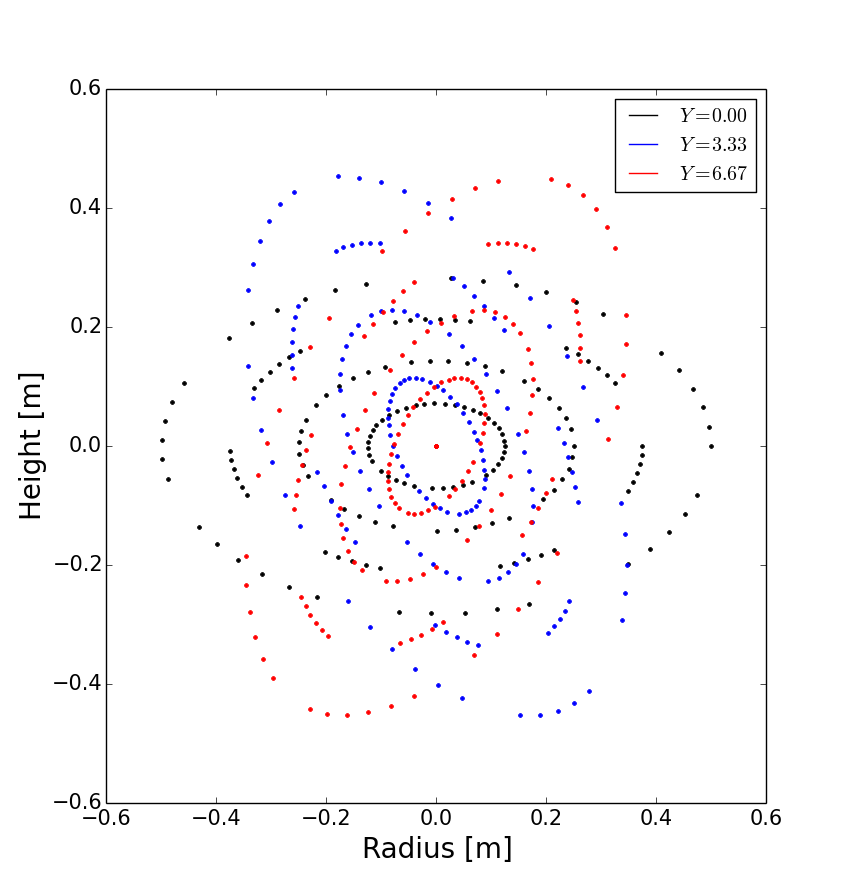
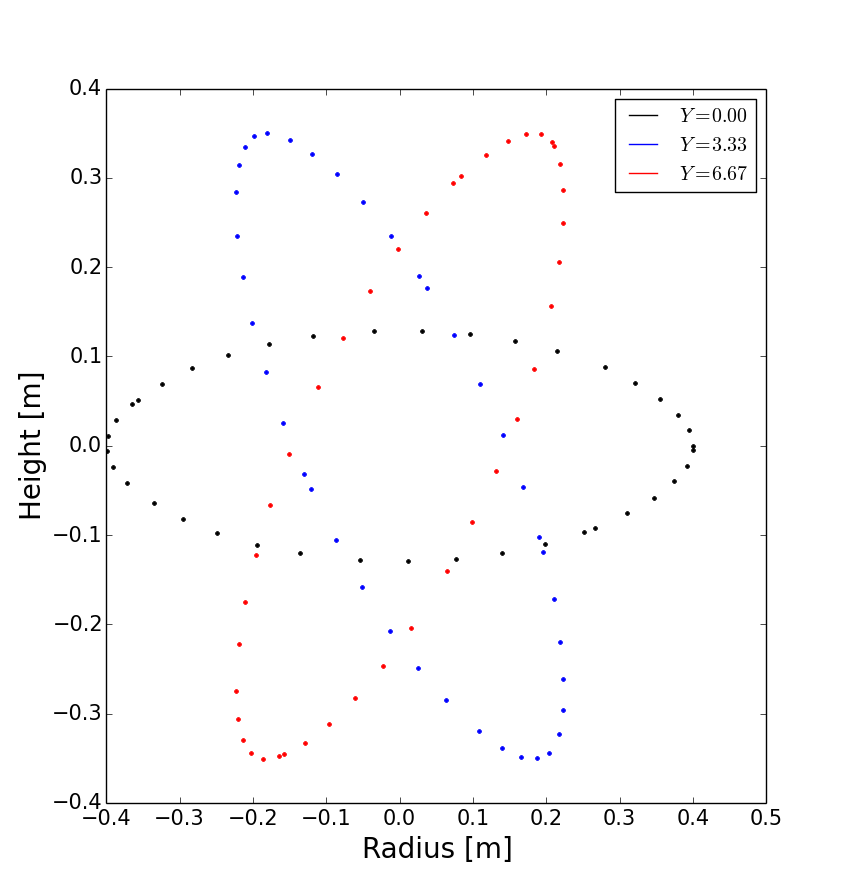
Adding section on aligning grid to flux surface

diff --git a/manual/sphinx/user_docs/zoidberg.rst b/manual/sphinx/user_docs/zoidberg.rst
@@ -37,11 +37,14 @@ As in the above code, creating an output file consists of the following steps:
 
 Each of these stages can be customised to handle more complicated
 magnetic fields, more complicated grids, and particular output formats. 
-Details of the functionality available are described in sections below; 
-here we will describe the key concepts.
+Details of the functionality available are described in sections below,
+and there are several examples in the `examples/zoidberg` directory.
 
-An important input is the size of the domain in Y, and
-whether the domain is periodic. By default ``rectangular_grid`` makes
+Rectangular grids
+-----------------
+
+An important input to Zoidberg is the size of the domain in Y, and
+whether the domain is periodic in Y. By default ``rectangular_grid`` makes
 a non-periodic rectangular box which is of length 10 in the Y direction.
 This means that there are boundaries at :math:`y=0` and at :math:`y=10`.
 ``rectangular_grid`` puts the y slices at equally spaced intervals, and puts
@@ -53,7 +56,7 @@ At each of these y locations ``rectangular_grid`` defines a rectangular 2D poloi
 the X-Z coordinates, by default with a length of 1 in each direction and centred on :math:`x=0,z=0`. 
 These 2D poloidal grids are then put together into a 3D ``Grid``. This process can be customised
 by separating step 2 (the ``rectangular_grid`` call) into stages 2a) and 2b). 
-For example, to create a periodic rectangular grid we could call:
+For example, to create a periodic rectangular grid we could use the following:
 
 .. code:: python
    
@@ -92,14 +95,16 @@ same on every poloidal grid. The shape of the grid can however be completely
 different. The construction of a 3D ``Grid`` is the same in all cases, so for now
 we will concentrate on producing different poloidal grids.
 
+More general grids
+------------------
+
 The FCI technique is not restricted to rectangular grids, and in particular
 Zoidberg can handle structured grids in an annulus with quite complicated shapes.
-The `StructuredPoloidalGrid` class handles more general geometries,
+The `StructuredPoloidalGrid` class handles quite general geometries,
 but still assumes that the grid is structured and logically rectangular.
 Currently it also assumes that the z index is periodic.
 
 One way to create this grid is to define the grid points manually e.g.:
-
 
 .. code:: python
           
@@ -116,8 +121,7 @@ One way to create this grid is to define the grid points manually e.g.:
    poloidal_grid = zoidberg.poloidal_grid.StructuredPoloidalGrid(R,Z)
 
 For more complicated shapes than circles, Zoidberg comes with an elliptic grid
-generator which needs to be given only the inner and outer 
-boundaries.
+generator which needs to be given only the inner and outer boundaries:
 
 .. code:: python
 
@@ -131,7 +135,8 @@ boundaries.
                             elong=1.0, triang=0.0, indent=0.2,
                             n=50)
    
-   grid = zoidberg.poloidal_grid.grid_elliptic(inner, outer, 100, 100, show=True)
+   poloidal_grid = zoidberg.poloidal_grid.grid_elliptic(inner, outer,
+                                                 100, 100, show=True)
 
 
 which should produce the figure below:
@@ -144,11 +149,93 @@ which should produce the figure below:
    A grid produced by ``grid_elliptic`` from shaped inner and outer lines
 
 
+Grids aligned to flux surfaces
+------------------------------
+
+The elliptic grid generator can be used to generate grids
+whose inner and/or outer boundaries align with magnetic flux surfaces.
+All it needs is two ``RZline`` objects as generated by ``zoidberg.rzline.shaped_line``,
+one for the inner boundary and one for the outer boundary.
+``RZline`` objects represent periodic lines in R-Z  (X-Z coordinates), with
+interpolation using splines.
+
+To create an ``RZline`` object for a flux surface we first need to find
+where the flux surface is. To do this we can use a Poincare plot: Start at a point
+and follow the magnetic field a number of times around the periodic y direction
+(e.g. toroidal angle). Every time the field line reaches a y location of interest,
+mark the position to build up a scattered set of points which all lie on the same
+flux surface.
+
+At the moment this will not work correctly for slab geometries, but expects
+closed flux surfaces such as in a stellarator or tokamak. A simple test case
+is a straight stellarator:
+
+.. code:: python
+   
+   import zoidberg
+   field = zoidberg.field.StraightStellarator(I_coil=0.4, yperiod=10)
+
+By default ``StraightStellarator`` calculates the magnetic field due to four coils which spiral around
+the axis at a distance :math:`r=0.8` in a classical stellarator configuration. The ``yperiod``
+argument is the period in y after which the coils return to their starting locations.
+   
+To visualise the Poincare plot for this stellarator field, pass the ``MagneticField`` object
+to ``zoidberg.plot.plot_poincare``, together with start location(s) and periodicity information:
+
+.. code:: python
+
+   zoidberg.plot.plot_poincare(field, 0.4, 0.0, 10.0)
+
+which should produce the following figure:
+
+.. figure:: ../figs/zoidberg/poincare.png
+   :name: poincare
+   :alt: Points on four oval shaped flux surfaces in x-z at three locations along the y direction
+   :scale: 50
+   
+   Poincare map of straight stellarator showing a single flux
+   surface. Each colour corresponds to a different x-z plane
+   in the y direction. 
+           
+The inputs here are the starting location :math:`\left(x,z\right) = \left(0.4, 0.0\right)`,
+and the periodicity in the y direction (10.0). By default this will
+integrate from this given starting location 40 times (``revs`` option) around the y domain (0 to 10). 
+
+To create an ``RZline`` from these Poincare plots we need a
+list of points in order around the line. Since the points
+on a flux surface in a Poincare will not generally be in order
+we need to find the best fit i.e. the shortest path which passes through all the points without crossing itself. In general
+this is a `known hard problem <https://en.wikipedia.org/wiki/Travelling_salesman_problem>`_
+but fortunately in this case the nearest neighbour algorithm seems to be quite robust provided there are enough points.
+
+An example of calculating a Poincare plot on a single y slice (y=0) and producing an ``RZline`` is:
+
+.. code:: python
+   
+   rzcoord, ycoords = zoidberg.fieldtracer.trace_poincare(field,
+                            0.4, 0.0, 10.0,
+                            y_slices=[0])
+   
+   R = rzcoord[:,0,0]
+   Z = rzcoord[:,0,1]
+          
+   line = zoidberg.rzline.line_from_points(R,Z)
+
+   line.plot()
+
+In general the points along this line are not evenly
+distributed, but tend to cluster together in some regions. 
+The elliptic grid generator places grid points on the boundaries
+which are uniform in the index of the ``RZline`` it is given.
+Passing a very uneven set of points will therefore result in
+a poor quality mesh. To avoid this, define a new ``RZline``
+by placing points at equal distances along the line:
+
+.. code:: python
+
+   line = line.orderByDistance()
 
 
-
-
-There are several examples in the `examples/zoidberg` directory
    
 Magnetic fields
 ---------------
@@ -200,29 +287,7 @@ Plotting the magnetic field
 ---------------------------
 
 Routines to plot the magnetic field are in ``zoidberg.plot``. 
-To plot a Poincare plot, pass the ``MagneticField`` object,
-start location(s) and periodicity information:
 
-.. code:: python
-
-   zoidberg.plot.plot_poincare(field, 0.1, 0.0, 1.0)
-
-The inputs here are the starting location :math:`\left(x,z\right) = \left(0.1, 0.0\right)`,
-and the periodicity in the y direction (1.0). By default this will
-integrate from this given starting location 40 times (``revs`` option) around the y domain (0 to 1.0). 
-
-An example generated by `this code <https://github.com/boutproject/BOUT-dev/blob/zoidberg-poloidal-grids/examples/zoidberg/poincare.py>`_ is shown in the poincare_ figure:
-
-.. figure:: ../figs/zoidberg/poincare.png
-   :name: poincare
-   :alt: Points on four oval shaped flux surfaces in x-z at three locations along the y direction
-   :scale: 50
-   
-
-   Poincare map of straight stellarator. Each colour corresponds to a different x-z plane
-   in the y direction. Four flux surfaces are shown, each started at a point at :math:`y=0, z=0`.
-
-   
          
 Creating poloidal grids
 -----------------------
